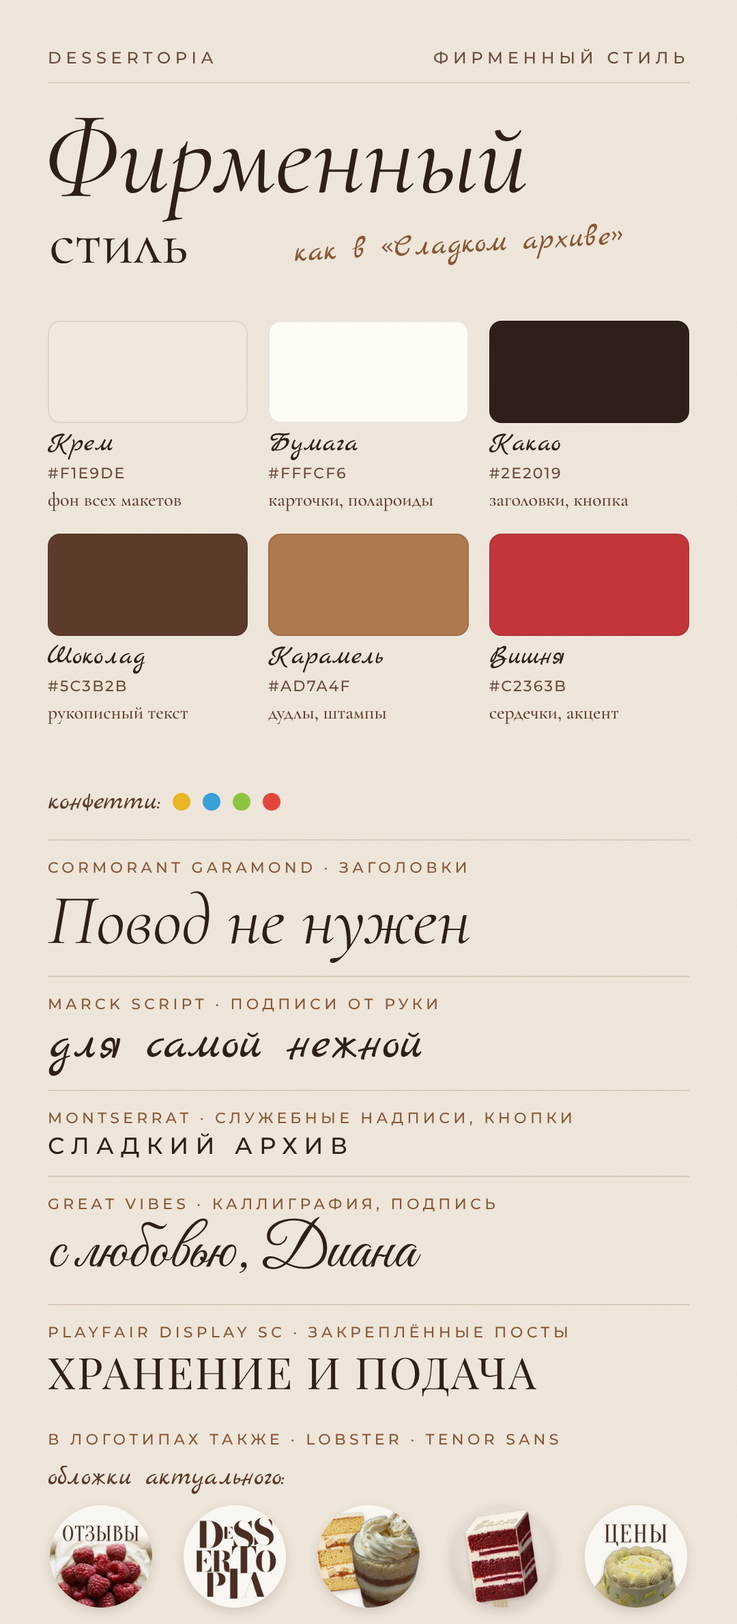
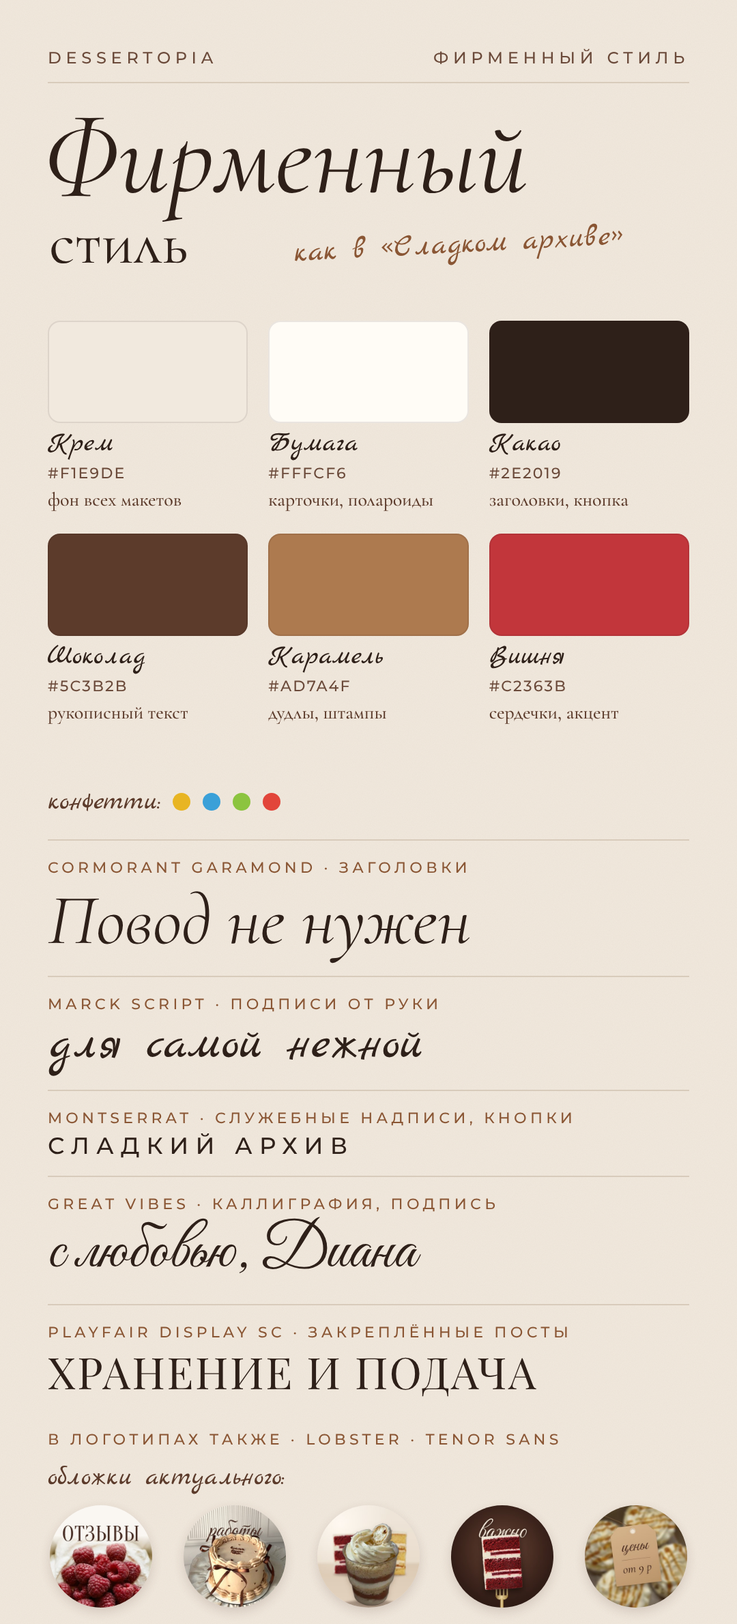
Give highlight covers depth: text behind the cake, depth of field, light
Отзывы stays as it was. Работы sets «работы» between the wall and the
cake in the real photo (a full-frame cut-out lies over the text); Начинки
is a still life with the trifle in focus and blurred slices behind;
Важно puts the red velvet slice on a gold fork under a spotlight on
cocoa with the word in cream script behind it; Цены is a sharp kraft
price tag over blurred caramel trifles. tools/cutouts.py now also makes
full-frame cut-outs.

Claude-Session: https://claude.ai/code/session_01BS48fjdM6CerzjRUCyn4gA

diff --git a/canvas/project/Main.dc.html b/canvas/project/Main.dc.html
@@ -33,19 +33,19 @@
 <div style="font-size: 27px; color: #F2F2F2">Отзывы</div>
 </div><div style="display: flex; flex-direction: column; align-items: center; gap: 14px; width: 186px">
 <div style="width: 176px; height: 176px; border-radius: 50%; box-shadow: 0 0 0 3px #0C0C0C, 0 0 0 6px #363636; overflow: hidden">
-<img src="/_blob/2ebeb56d7f7fb51aac198069316cb619" alt="Обложка «Работы»" style="display: block; width: 176px; height: 176px; object-fit: cover"></div>
+<img src="/_blob/f9aac03fb1fd605c7ca9c84464d1e232" alt="Обложка «Работы»" style="display: block; width: 176px; height: 176px; object-fit: cover"></div>
 <div style="font-size: 27px; color: #F2F2F2">Работы</div>
 </div><div style="display: flex; flex-direction: column; align-items: center; gap: 14px; width: 186px">
 <div style="width: 176px; height: 176px; border-radius: 50%; box-shadow: 0 0 0 3px #0C0C0C, 0 0 0 6px #363636; overflow: hidden">
-<img src="/_blob/817e40cda516cc41c44689f0266e1520" alt="Обложка «Начинки»" style="display: block; width: 176px; height: 176px; object-fit: cover"></div>
+<img src="/_blob/1f54611f6eee30df684f20d3667f04f2" alt="Обложка «Начинки»" style="display: block; width: 176px; height: 176px; object-fit: cover"></div>
 <div style="font-size: 27px; color: #F2F2F2">Начинки</div>
 </div><div style="display: flex; flex-direction: column; align-items: center; gap: 14px; width: 186px">
 <div style="width: 176px; height: 176px; border-radius: 50%; box-shadow: 0 0 0 3px #0C0C0C, 0 0 0 6px #363636; overflow: hidden">
-<img src="/_blob/ce32775d3e09d6fdc9b50ed0fa0094a5" alt="Обложка «Важно»" style="display: block; width: 176px; height: 176px; object-fit: cover"></div>
+<img src="/_blob/d801915588370985937cc82f2c6ca19c" alt="Обложка «Важно»" style="display: block; width: 176px; height: 176px; object-fit: cover"></div>
 <div style="font-size: 27px; color: #F2F2F2">Важно</div>
 </div><div style="display: flex; flex-direction: column; align-items: center; gap: 14px; width: 186px">
 <div style="width: 176px; height: 176px; border-radius: 50%; box-shadow: 0 0 0 3px #0C0C0C, 0 0 0 6px #363636; overflow: hidden">
-<img src="/_blob/203d1f568f97509d0b259b0107fa23db" alt="Обложка «Цены»" style="display: block; width: 176px; height: 176px; object-fit: cover"></div>
+<img src="/_blob/ed17056a1d9a74ec5f4c6afcec04c608" alt="Обложка «Цены»" style="display: block; width: 176px; height: 176px; object-fit: cover"></div>
 <div style="font-size: 27px; color: #F2F2F2">Цены</div>
 </div></div>
 <div style="position: absolute; left: 0; right: 0; top: 1160px; display: grid; grid-template-columns: repeat(3, minmax(0, 1fr)); gap: 3px"><div style="position: relative; height: 477px; overflow: hidden; background: #1C1C1C"><img src="/_blob/005080349611d3189dfe90de2a8bd929" alt="Закреплённый пост «Заказ и доставка»" style="display: block; width: 100%; height: 100%; object-fit: cover"><svg aria-hidden="true" width="44" height="44" viewBox="0 0 24 24" style="position: absolute; right: 14px; top: 14px" fill="#FFFFFF"><path d="M15 3l6 6-3 1-3 3 1 5-2 2-4-4-5 5-1-1 5-5-4-4 2-2 5 1 3-3z"></path></svg></div><div style="position: relative; height: 477px; overflow: hidden; background: #1C1C1C"><img src="/_blob/2ceec1c35d367293e7617c2252eb7139" alt="Закреплённый пост «Цены и начинки»" style="display: block; width: 100%; height: 100%; object-fit: cover"><svg aria-hidden="true" width="44" height="44" viewBox="0 0 24 24" style="position: absolute; right: 14px; top: 14px" fill="#FFFFFF"><path d="M15 3l6 6-3 1-3 3 1 5-2 2-4-4-5 5-1-1 5-5-4-4 2-2 5 1 3-3z"></path></svg></div><div style="position: relative; height: 477px; overflow: hidden; background: #1C1C1C"><img src="/_blob/4c7e3755ee36408cef662a32834a595e" alt="Закреплённый пост «Хранение и подача»" style="display: block; width: 100%; height: 100%; object-fit: cover"><svg aria-hidden="true" width="44" height="44" viewBox="0 0 24 24" style="position: absolute; right: 14px; top: 14px" fill="#FFFFFF"><path d="M15 3l6 6-3 1-3 3 1 5-2 2-4-4-5 5-1-1 5-5-4-4 2-2 5 1 3-3z"></path></svg></div><div style="position: relative; height: 477px; overflow: hidden; background: #1C1C1C"><img src="/_blob/f8fcf921f8e249a7b206a12603d5a9c9" alt="Карусель начинок" style="display: block; width: 100%; height: 100%; object-fit: cover"><svg aria-hidden="true" width="44" height="44" viewBox="0 0 24 24" style="position: absolute; right: 14px; top: 14px" fill="none" stroke="#FFFFFF" stroke-width="2"><rect x="3" y="7" width="13" height="14" rx="2"></rect><path d="M8 3h11a2 2 0 0 1 2 2v11"></path></svg></div><div style="position: relative; height: 477px; overflow: hidden; background: #1C1C1C"><img src="/_blob/4e531b87e15dad19504aaaad31d66a47" alt="Карусель «Повод не нужен»" style="display: block; width: 100%; height: 100%; object-fit: cover"><svg aria-hidden="true" width="44" height="44" viewBox="0 0 24 24" style="position: absolute; right: 14px; top: 14px" fill="none" stroke="#FFFFFF" stroke-width="2"><rect x="3" y="7" width="13" height="14" rx="2"></rect><path d="M8 3h11a2 2 0 0 1 2 2v11"></path></svg></div><div style="position: relative; height: 477px; overflow: hidden; background: #1C1C1C"><img src="/_blob/0192b5076a120dafd266790ff9ee6270" alt="Пост «Десерты в стаканчиках»" style="display: block; width: 100%; height: 100%; object-fit: cover"></div><div style="position: relative; height: 477px; overflow: hidden; background: #1C1C1C"><img src="/_blob/3f2f924fea4a3947ce2a07ae1027e553" alt="Пост «Что написать на твоём торте?»" style="display: block; width: 100%; height: 100%; object-fit: cover"></div><div style="position: relative; height: 477px; overflow: hidden; background: #1C1C1C"><img src="/_blob/acc311caf7482b23272767a83e2e6cb5" alt="Пост «Торты, которые говорят за тебя»" style="display: block; width: 100%; height: 100%; object-fit: cover"></div><div style="position: relative; height: 477px; overflow: hidden; background: #1C1C1C"><img src="/_blob/4053d6ba731c96bceb9810e75856a825" alt="Торт «время пить чай»" style="display: block; width: 100%; height: 100%; object-fit: cover"></div></div>

diff --git a/canvas/project/Hl-4-Vazhno.dc.html b/canvas/project/Hl-4-Vazhno.dc.html
@@ -11,14 +11,10 @@
 <link href="https://fonts.googleapis.com/css2?family=Cormorant+Garamond:ital,wght@0,400;0,500;0,600;1,400;1,500&amp;family=Marck+Script&amp;family=Montserrat:wght@400;500;600&amp;family=Great+Vibes&amp;family=Lobster&amp;family=Playfair+Display+SC&amp;family=Tenor+Sans&amp;family=Playfair+Display:wght@400&amp;family=Bodoni+Moda:opsz,wght@96,400;96,800&amp;family=Oranienbaum&amp;display=swap" rel="stylesheet">
 <style>body{margin:0}</style>
 </helmet>
-<div style="position: relative; width: 1080px; height: 1080px; overflow: hidden; background: radial-gradient(circle at 50% 40%, #F3EEE8 0%, #E3DAD0 58%, #CFC4B8 100%)">
-<div style="position: absolute; left: 200px; top: 92px; width: 690px; height: 1107px; transform: rotate(-8deg); filter: drop-shadow(0 22px 26px rgba(74,46,36,0.20)) drop-shadow(0 4px 6px rgba(74,46,36,0.12))">
-<div style="position: absolute; left: 200px; top: 867px; width: 16px; height: 240px; border-radius: 8px; background: linear-gradient(90deg, #A4803F, #E9D29D 45%, #B38E4C)"></div><div style="position: absolute; left: 240px; top: 867px; width: 16px; height: 240px; border-radius: 8px; background: linear-gradient(90deg, #A4803F, #E9D29D 45%, #B38E4C)"></div><div style="position: absolute; left: 280px; top: 867px; width: 16px; height: 240px; border-radius: 8px; background: linear-gradient(90deg, #A4803F, #E9D29D 45%, #B38E4C)"></div><div style="position: absolute; left: 320px; top: 867px; width: 16px; height: 240px; border-radius: 8px; background: linear-gradient(90deg, #A4803F, #E9D29D 45%, #B38E4C)"></div>
-<img src="/_blob/aa09a6fc09ca924ef383f077895fb3af" alt="" style="position: absolute; left: 540px; top: 140px; width: 150px; height: 757px; max-width: none; filter: brightness(0.62) saturate(1.1); transform-origin: 0 0; transform: skewY(-43.0deg)">
-<img src="/_blob/aa09a6fc09ca924ef383f077895fb3af" alt="Кусок красного бархата" style="position: absolute; left: 0; top: 140px; width: 540px; height: 757px; max-width: none">
-<div style="position: absolute; left: 0; top: 0; width: 690px; height: 148px; background: linear-gradient(176deg, #F4ECDF 0%, #FBF6EE 55%, #F1E6D6 100%); clip-path: polygon(0 148px, 540px 148px, 690px 0, 150px 0)"></div>
-<div style="position: absolute; left: 75px; top: -4px; width: 540px; text-align: center; font-family: 'Marck Script', cursive; font-size: 172px; line-height: 1; color: #F3E8D7; text-shadow: -2px -2px 0 #FFFDF8, 3px 5px 0 #B49671, 6px 11px 12px rgba(90,50,30,0.40); transform-origin: 50% 50%; transform: skewX(-46deg) scaleY(0.62)">Важно</div>
-</div>
+<div style="position: relative; width: 1080px; height: 1080px; overflow: hidden; background: radial-gradient(circle at 50% 44%, #7A5141 0%, #4E3126 34%, #331E17 66%, #22130E 100%)">
+<div style="position: absolute; left: 0; right: 0; top: 150px; text-align: center; font-family: 'Great Vibes', cursive; font-size: 262px; line-height: 1; color: #F6EBDD; text-shadow: 0 6px 24px rgba(0,0,0,0.35)">важно</div>
+<div style="position: absolute; left: 470px; top: 850px; width: 16px; height: 120px; border-radius: 8px; background: linear-gradient(90deg, #8E6A2E, #F1DCA6 45%, #A98642)"></div><div style="position: absolute; left: 508px; top: 850px; width: 16px; height: 120px; border-radius: 8px; background: linear-gradient(90deg, #8E6A2E, #F1DCA6 45%, #A98642)"></div><div style="position: absolute; left: 546px; top: 850px; width: 16px; height: 120px; border-radius: 8px; background: linear-gradient(90deg, #8E6A2E, #F1DCA6 45%, #A98642)"></div><div style="position: absolute; left: 584px; top: 850px; width: 16px; height: 120px; border-radius: 8px; background: linear-gradient(90deg, #8E6A2E, #F1DCA6 45%, #A98642)"></div><div style="position: absolute; left: 470px; top: 950px; width: 130px; height: 46px; border-radius: 0 0 60px 60px; background: linear-gradient(90deg, #8E6A2E, #F1DCA6 45%, #A98642)"></div><div style="position: absolute; left: 518px; top: 980px; width: 34px; height: 140px; border-radius: 17px; background: linear-gradient(90deg, #8E6A2E, #F1DCA6 45%, #A98642)"></div>
+<img src="/_blob/aa09a6fc09ca924ef383f077895fb3af" alt="Кусок красного бархата на вилке" style="position: absolute; left: 336px; top: 318px; width: 404px; max-width: none; filter: drop-shadow(0 0 1px rgba(255,236,214,0.6)) drop-shadow(0 30px 36px rgba(0,0,0,0.55)); transform: rotate(-4deg)">
 </div>
 </x-dc>
 <script type="text/x-dc" data-dc-script data-props='{"$preview":{"width":1080,"height":1080}}'>

diff --git a/canvas/project/Hl-5-Ceny.dc.html b/canvas/project/Hl-5-Ceny.dc.html
@@ -11,9 +11,17 @@
 <link href="https://fonts.googleapis.com/css2?family=Cormorant+Garamond:ital,wght@0,400;0,500;0,600;1,400;1,500&amp;family=Marck+Script&amp;family=Montserrat:wght@400;500;600&amp;family=Great+Vibes&amp;family=Lobster&amp;family=Playfair+Display+SC&amp;family=Tenor+Sans&amp;family=Playfair+Display:wght@400&amp;family=Bodoni+Moda:opsz,wght@96,400;96,800&amp;family=Oranienbaum&amp;display=swap" rel="stylesheet">
 <style>body{margin:0}</style>
 </helmet>
-<div style="position: relative; width: 1080px; height: 1080px; overflow: hidden; background: #FAF7F2">
-<img src="/_blob/458622d8f8bc36bd55cb9fe424af4ed3" alt="Бенто-торт с надписью «Будь счастлива»" style="position: absolute; left: 90px; top: 430px; width: 900px; max-width: none; filter: drop-shadow(0 22px 26px rgba(74,46,36,0.20)) drop-shadow(0 4px 6px rgba(74,46,36,0.12))">
-<svg role="img" aria-label="ЦЕНЫ" width="1080" height="1080" style="position: absolute; left: 0; top: 0"><text x="540" y="392" text-anchor="middle" letter-spacing="8" style="font-family: 'Oranienbaum', 'Playfair Display', serif; font-size: 270px" fill="#4A2E24">ЦЕНЫ</text></svg>
+<div style="position: relative; width: 1080px; height: 1080px; overflow: hidden; background: #E9DFD2">
+<img src="/_blob/e7f5be81caaf56665d59f4c94ec359e5" alt="" style="position: absolute; left: -40px; top: -160px; width: 1160px; max-width: none; filter: blur(9px) sepia(0.2) saturate(1.05) brightness(0.98)">
+<div style="position: absolute; inset: 0; background: radial-gradient(circle at 50% 50%, rgba(40,24,16,0) 40%, rgba(40,24,16,0.28) 100%)"></div>
+<svg aria-hidden="true" width="1080" height="1080" style="position: absolute; left: 0; top: 0" fill="none"><path d="M-20 40C150 90 330 150 490 238" stroke="#7A5A3E" stroke-width="5" stroke-linecap="round"></path></svg>
+<div style="position: absolute; left: 262px; top: 214px; width: 480px; height: 620px; transform: rotate(-7deg); transform-origin: 50% 6%; filter: drop-shadow(0 34px 34px rgba(60,36,24,0.38)) drop-shadow(0 4px 6px rgba(60,36,24,0.2))">
+<div style="position: absolute; inset: 0; clip-path: polygon(18% 0, 82% 0, 100% 15%, 100% 100%, 0 100%, 0 15%); background: linear-gradient(160deg, #D5B48C 0%, #C7A27A 60%, #BA9469 100%)"></div>
+<div style="position: absolute; left: 216px; top: 34px; width: 48px; height: 48px; border-radius: 50%; background: #F1E6D6; box-shadow: inset 0 3px 6px rgba(60,36,24,0.45), 0 0 0 7px #E2CDB0"></div>
+<div style="position: absolute; left: 0; right: 0; top: 130px; text-align: center; font-family: 'Great Vibes', cursive; font-size: 186px; line-height: 1; color: #4A2E24">цены</div>
+<div style="position: absolute; left: 90px; right: 90px; top: 352px; height: 3px; background: rgba(74,46,36,0.45)"></div>
+<div style="position: absolute; left: 0; right: 0; top: 386px; text-align: center; font-family: 'Cormorant Garamond', serif; font-style: italic; font-weight: 500; font-size: 128px; line-height: 1; color: #4A2E24">от 9 р</div>
+</div>
 </div>
 </x-dc>
 <script type="text/x-dc" data-dc-script data-props='{"$preview":{"width":1080,"height":1080}}'>

diff --git a/canvas/project/Style.dc.html b/canvas/project/Style.dc.html
@@ -57,7 +57,7 @@
 <div style="margin-top: 10px; line-height: 1.05; color: #2E2019; font-family: 'Playfair Display SC', serif; font-size: 64px; letter-spacing: 0.04em">ХРАНЕНИЕ И ПОДАЧА</div></div></div>
 <div style="position: absolute; left: 70px; top: 2096px; font-family: 'Montserrat', sans-serif; font-weight: 500; font-size: 22px; letter-spacing: 0.24em; color: #8A5634">В ЛОГОТИПАХ ТАКЖЕ · LOBSTER · TENOR SANS</div>
 <div style="position: absolute; left: 70px; top: 2140px; font-family: 'Marck Script', cursive; font-size: 40px; color: #5C3B2B">обложки актуального:</div>
-<div style="position: absolute; left: 50px; right: 50px; top: 2206px; display: flex; justify-content: space-around"><img src="/_blob/ce08636d969a34ba96e6d5458d19851d" alt="Обложка «Отзывы»" style="width: 150px; height: 150px; border-radius: 50%; object-fit: cover; box-shadow: 0 6px 16px rgba(74,46,36,0.16)"><img src="/_blob/2ebeb56d7f7fb51aac198069316cb619" alt="Обложка «Работы»" style="width: 150px; height: 150px; border-radius: 50%; object-fit: cover; box-shadow: 0 6px 16px rgba(74,46,36,0.16)"><img src="/_blob/817e40cda516cc41c44689f0266e1520" alt="Обложка «Начинки»" style="width: 150px; height: 150px; border-radius: 50%; object-fit: cover; box-shadow: 0 6px 16px rgba(74,46,36,0.16)"><img src="/_blob/ce32775d3e09d6fdc9b50ed0fa0094a5" alt="Обложка «Важно»" style="width: 150px; height: 150px; border-radius: 50%; object-fit: cover; box-shadow: 0 6px 16px rgba(74,46,36,0.16)"><img src="/_blob/203d1f568f97509d0b259b0107fa23db" alt="Обложка «Цены»" style="width: 150px; height: 150px; border-radius: 50%; object-fit: cover; box-shadow: 0 6px 16px rgba(74,46,36,0.16)"></div>
+<div style="position: absolute; left: 50px; right: 50px; top: 2206px; display: flex; justify-content: space-around"><img src="/_blob/ce08636d969a34ba96e6d5458d19851d" alt="Обложка «Отзывы»" style="width: 150px; height: 150px; border-radius: 50%; object-fit: cover; box-shadow: 0 6px 16px rgba(74,46,36,0.16)"><img src="/_blob/f9aac03fb1fd605c7ca9c84464d1e232" alt="Обложка «Работы»" style="width: 150px; height: 150px; border-radius: 50%; object-fit: cover; box-shadow: 0 6px 16px rgba(74,46,36,0.16)"><img src="/_blob/1f54611f6eee30df684f20d3667f04f2" alt="Обложка «Начинки»" style="width: 150px; height: 150px; border-radius: 50%; object-fit: cover; box-shadow: 0 6px 16px rgba(74,46,36,0.16)"><img src="/_blob/d801915588370985937cc82f2c6ca19c" alt="Обложка «Важно»" style="width: 150px; height: 150px; border-radius: 50%; object-fit: cover; box-shadow: 0 6px 16px rgba(74,46,36,0.16)"><img src="/_blob/ed17056a1d9a74ec5f4c6afcec04c608" alt="Обложка «Цены»" style="width: 150px; height: 150px; border-radius: 50%; object-fit: cover; box-shadow: 0 6px 16px rgba(74,46,36,0.16)"></div>
 </div>
 </x-dc>
 <script type="text/x-dc" data-dc-script data-props='{"$preview":{"width":1080,"height":2380}}'>

diff --git a/canvas/project/Hl-2-Raboty.dc.html b/canvas/project/Hl-2-Raboty.dc.html
@@ -11,8 +11,10 @@
 <link href="https://fonts.googleapis.com/css2?family=Cormorant+Garamond:ital,wght@0,400;0,500;0,600;1,400;1,500&amp;family=Marck+Script&amp;family=Montserrat:wght@400;500;600&amp;family=Great+Vibes&amp;family=Lobster&amp;family=Playfair+Display+SC&amp;family=Tenor+Sans&amp;family=Playfair+Display:wght@400&amp;family=Bodoni+Moda:opsz,wght@96,400;96,800&amp;family=Oranienbaum&amp;display=swap" rel="stylesheet">
 <style>body{margin:0}</style>
 </helmet>
-<div style="position: relative; width: 1080px; height: 1080px; overflow: hidden; background: #FAF7F2">
-<svg role="img" aria-label="DESSERTOPIA" width="1080" height="1080" style="position: absolute; left: 0; top: 0" fill="#4A2E24"><text x="132" y="450" style="font-family: 'Bodoni Moda', 'Playfair Display', serif; font-weight: 800; font-size: 380px">D</text><text x="413" y="354" style="font-family: 'Bodoni Moda', 'Playfair Display', serif; font-weight: 800; font-size: 170px">E</text><text x="515" y="450" style="font-family: 'Bodoni Moda', 'Playfair Display', serif; font-weight: 800; font-size: 380px">S</text><text x="731" y="420" style="font-family: 'Bodoni Moda', 'Playfair Display', serif; font-weight: 800; font-size: 380px">S</text><text x="107" y="702" style="font-family: 'Bodoni Moda', 'Playfair Display', serif; font-weight: 800; font-size: 300px">E</text><text x="288" y="702" style="font-family: 'Bodoni Moda', 'Playfair Display', serif; font-weight: 800; font-size: 300px">R</text><text x="504" y="716" style="font-family: 'Bodoni Moda', 'Playfair Display', serif; font-weight: 800; font-size: 380px">T</text><text x="752" y="702" style="font-family: 'Bodoni Moda', 'Playfair Display', serif; font-weight: 800; font-size: 300px">O</text><text x="215" y="966" style="font-family: 'Bodoni Moda', 'Playfair Display', serif; font-weight: 800; font-size: 340px">P</text><text x="439" y="984" style="font-family: 'Bodoni Moda', 'Playfair Display', serif; font-weight: 800; font-size: 420px">I</text><text x="606" y="966" style="font-family: 'Bodoni Moda', 'Playfair Display', serif; font-weight: 800; font-size: 340px">A</text></svg>
+<div style="position: relative; width: 1080px; height: 1080px; overflow: hidden; background: #EDE9E4">
+<img src="/_blob/4053d6ba731c96bceb9810e75856a825" alt="" style="position: absolute; left: 0; top: -225px; width: 1080px; max-width: none; filter: sepia(0.14) saturate(0.96) brightness(1.02)">
+<div style="position: absolute; left: 0; right: 0; top: 150px; text-align: center; font-family: 'Great Vibes', cursive; font-size: 236px; line-height: 1; color: #4A2E24">работы</div>
+<img src="/_blob/27fe42987e573e2f936c47136d3bec8f" alt="Торт «время пить чай» с бантами" style="position: absolute; left: 0; top: -225px; width: 1080px; max-width: none; filter: sepia(0.14) saturate(0.96) brightness(1.02)">
 </div>
 </x-dc>
 <script type="text/x-dc" data-dc-script data-props='{"$preview":{"width":1080,"height":1080}}'>

diff --git a/canvas/project/Hl-3-Nachinki.dc.html b/canvas/project/Hl-3-Nachinki.dc.html
@@ -11,9 +11,12 @@
 <link href="https://fonts.googleapis.com/css2?family=Cormorant+Garamond:ital,wght@0,400;0,500;0,600;1,400;1,500&amp;family=Marck+Script&amp;family=Montserrat:wght@400;500;600&amp;family=Great+Vibes&amp;family=Lobster&amp;family=Playfair+Display+SC&amp;family=Tenor+Sans&amp;family=Playfair+Display:wght@400&amp;family=Bodoni+Moda:opsz,wght@96,400;96,800&amp;family=Oranienbaum&amp;display=swap" rel="stylesheet">
 <style>body{margin:0}</style>
 </helmet>
-<div style="position: relative; width: 1080px; height: 1080px; overflow: hidden; background: #FAF7F2">
-<img src="/_blob/d67acf0d705c6ffc2d5a67853c319c83" alt="Срез торта банан-карамель" style="position: absolute; left: -30px; top: 70px; width: 560px; max-width: none; filter: drop-shadow(0 22px 26px rgba(74,46,36,0.20)) drop-shadow(0 4px 6px rgba(74,46,36,0.12)); transform: rotate(-6deg)">
-<img src="/_blob/1b632c4ee3f7a61c0409caf9cd45dc04" alt="Трайфл со сливочным кремом" style="position: absolute; left: 330px; top: 30px; width: 780px; max-width: none; filter: drop-shadow(0 22px 26px rgba(74,46,36,0.20)) drop-shadow(0 4px 6px rgba(74,46,36,0.12)); transform: rotate(2deg)">
+<div style="position: relative; width: 1080px; height: 1080px; overflow: hidden; background: radial-gradient(circle at 22% 18%, rgba(255,250,242,0.95) 0%, rgba(255,250,242,0) 46%), linear-gradient(180deg, #EFE6DA 0%, #E9DDCD 55%, #DCCAB4 58%, #E3D3BF 100%)">
+<div style="position: absolute; left: 168px; top: 710px; width: 300px; height: 37px; border-radius: 50%; background: rgba(60,36,24,0.3); filter: blur(10px)"></div><div style="position: absolute; left: 618px; top: 708px; width: 320px; height: 40px; border-radius: 50%; background: rgba(60,36,24,0.3); filter: blur(10px)"></div>
+<img src="/_blob/aa09a6fc09ca924ef383f077895fb3af" alt="Срез красного бархата" style="position: absolute; left: 168px; top: 300px; width: 300px; max-width: none; filter: blur(5px) brightness(0.97); transform: rotate(-2deg)">
+<img src="/_blob/d67acf0d705c6ffc2d5a67853c319c83" alt="Срез торта банан-карамель" style="position: absolute; left: 618px; top: 262px; width: 320px; max-width: none; filter: blur(5px) brightness(0.97); transform: rotate(2deg)">
+<div style="position: absolute; left: 260px; top: 1003px; width: 600px; height: 75px; border-radius: 50%; background: rgba(60,36,24,0.36); filter: blur(10px)"></div>
+<img src="/_blob/1b632c4ee3f7a61c0409caf9cd45dc04" alt="Трайфл со сливочным кремом" style="position: absolute; left: 262px; top: 190px; width: 600px; max-width: none; filter: drop-shadow(0 22px 26px rgba(74,46,36,0.20)) drop-shadow(0 4px 6px rgba(74,46,36,0.12))">
 </div>
 </x-dc>
 <script type="text/x-dc" data-dc-script data-props='{"$preview":{"width":1080,"height":1080}}'>

diff --git a/tools/build_highlights.py b/tools/build_highlights.py
@@ -1,23 +1,24 @@
-"""Highlight covers, 1080×1080, after the original covers: a light clean background, the food cut out on it,
-thin high-contrast editorial type. Each cover keeps its original idea —
-«Отзывы»: word on top, berries below; «Работы»: the DESS/ERTO/PIA letter stack; «Начинки»: desserts only;
-«Важно»: a red velvet slice with the word piped on it — in the new palette.
+"""Highlight covers, 1080×1080. «Отзывы» follows the original cover (word on top, berries below on a clean
+background); the others each use their own way to get depth instead of a cut-out on a flat background:
+«Работы» — the word set behind the cake in the real photo, «Начинки» — a still life with depth of field,
+«Важно» — a slice on a fork under a spotlight on cocoa, «Цены» — a sharp kraft price tag over blurred caramel trifles.
 
 Cut-outs come from tools/cutouts.py. Run `python3 tools/build.py` (it calls this module).
 """
-import math
-
 from build import COCOA, PROJECT, page
 
 CUT = {
     "malina": "/_blob/6e337375aa197f5ae76500d2a2c56f08", "barkhat": "/_blob/aa09a6fc09ca924ef383f077895fb3af",
     "banan": "/_blob/d67acf0d705c6ffc2d5a67853c319c83", "trifl": "/_blob/1b632c4ee3f7a61c0409caf9cd45dc04",
-    "bento": "/_blob/458622d8f8bc36bd55cb9fe424af4ed3",
+    "bento": "/_blob/458622d8f8bc36bd55cb9fe424af4ed3", "chai-full": "/_blob/27fe42987e573e2f936c47136d3bec8f",
 }
+PHOTO = {"chai": "/_blob/4053d6ba731c96bceb9810e75856a825", "trifly": "/_blob/e7f5be81caaf56665d59f4c94ec359e5"}
 IVORY = "#FAF7F2"
+CREAM = "#F6EBDD"
 CONDENSED = "font-family: 'Oranienbaum', 'Playfair Display', serif"
-BODONI = "'Bodoni Moda', 'Playfair Display', serif"
+VIBES = "font-family: 'Great Vibes', cursive"
 SHADOW = "filter: drop-shadow(0 22px 26px rgba(74,46,36,0.20)) drop-shadow(0 4px 6px rgba(74,46,36,0.12))"
+WARM = "filter: sepia(0.14) saturate(0.96) brightness(1.02)"
 
 
 def cover(title, bg, body):
@@ -26,9 +27,10 @@ def cover(title, bg, body):
 </div>""")
 
 
-def cut(key, alt, left, top, width, rot=0):
+def cut(key, alt, left, top, width, rot=0, extra=""):
     turn = f"; transform: rotate({rot}deg)" if rot else ""
-    return f'<img src="{CUT[key]}" alt="{alt}" style="position: absolute; left: {left}px; top: {top}px; width: {width}px; max-width: none; {SHADOW}{turn}">'
+    return (f'<img src="{CUT[key]}" alt="{alt}" style="position: absolute; left: {left}px; top: {top}px; width: {width}px; '
+            f'max-width: none; {extra or SHADOW}{turn}">')
 
 
 def word(baseline, text, size, spacing=0):
@@ -45,59 +47,61 @@ def otzyvy():
     return cover("Обложка — Отзывы", IVORY, body)
 
 
-# DESS / ERTO / PIA, as in the original: three rows set letter by letter, a small raised E, the second S lifted,
-# the tall T and I reaching into the row above, letters close to touching. Advance widths are Bodoni Moda 800 (units of 2000).
-ADVANCE = {"D": 1567, "E": 1292, "S": 1228, "R": 1529, "T": 1399, "O": 1558, "P": 1405, "I": 888, "A": 1609}
-ROWS = [
-    # baseline, [(char, size, rise)]
-    (450, [("D", 380, 0), ("E", 170, 96), ("S", 380, 0), ("S", 380, 30)]),
-    (702, [("E", 300, 0), ("R", 300, 0), ("T", 380, -14), ("O", 300, 0)]),
-    (966, [("P", 340, 0), ("I", 420, -18), ("A", 340, 0)]),
-]
-TRACK = -0.045
-
-
 def raboty():
-    glyphs = []
-    for base, letters in ROWS:
-        widths = [ADVANCE[c] / 2000 * sz + TRACK * sz for c, sz, _ in letters]
-        x = 540 - sum(widths) / 2
-        for (c, sz, rise), wd in zip(letters, widths):
-            glyphs.append(f'<text x="{x:.0f}" y="{base - rise}" style="font-family: {BODONI}; font-weight: 800; font-size: {sz}px">{c}</text>')
-            x += wd
-    return cover("Обложка — Работы", IVORY,
-                 f'<svg role="img" aria-label="DESSERTOPIA" width="1080" height="1080" style="position: absolute; left: 0; top: 0" fill="{COCOA}">{"".join(glyphs)}</svg>')
+    """The real cake photo with «работы» set between the wall and the cake: the full-frame cut-out of the cake
+    lies on top of the text, so the piped border and the ribbons pass in front of the letters."""
+    frame = "position: absolute; left: 0; top: -225px; width: 1080px; max-width: none"   # source 960×1280, y 200…1160
+    body = f"""<img src="{PHOTO["chai"]}" alt="" style="{frame}; {WARM}">
+<div style="position: absolute; left: 0; right: 0; top: 150px; text-align: center; {VIBES}; font-size: 236px; line-height: 1; color: {COCOA}">работы</div>
+<img src="{CUT["chai-full"]}" alt="Торт «время пить чай» с бантами" style="{frame}; {WARM}">"""
+    return cover("Обложка — Работы", "#EDE9E4", body)
 
 
 def nachinki():
-    body = f"""{cut("banan", "Срез торта банан-карамель", -30, 70, 560, -6)}
-{cut("trifl", "Трайфл со сливочным кремом", 330, 30, 780, 2)}"""
-    return cover("Обложка — Начинки", IVORY, body)
+    """A small still life: the trifle sharp in front, two slices showing their layers behind it, out of focus,
+    all standing on the same table."""
+    room = ("radial-gradient(circle at 22% 18%, rgba(255,250,242,0.95) 0%, rgba(255,250,242,0) 46%), "
+            "linear-gradient(180deg, #EFE6DA 0%, #E9DDCD 55%, #DCCAB4 58%, #E3D3BF 100%)")
+    contact = lambda cx, cy, rx, o: (f'<div style="position: absolute; left: {cx - rx}px; top: {cy - rx // 8}px; width: {rx * 2}px; height: {rx // 4}px; '
+                                     f'border-radius: 50%; background: rgba(60,36,24,{o}); filter: blur(10px)"></div>')
+    soft = "filter: blur(5px) brightness(0.97)"
+    body = f"""{contact(318, 728, 150, 0.30)}{contact(778, 728, 160, 0.30)}
+{cut("barkhat", "Срез красного бархата", 168, 300, 300, -2, soft)}
+{cut("banan", "Срез торта банан-карамель", 618, 262, 320, 2, soft)}
+{contact(560, 1040, 300, 0.36)}
+{cut("trifl", "Трайфл со сливочным кремом", 262, 190, 600)}"""
+    return cover("Обложка — Начинки", room, body)
 
 
 def vazhno():
-    """A red velvet slice seen from above-right: the photo is the front face, the same photo squeezed and darkened
-    is the side face, the top face is drawn with «Важно» piped on it, and the slice sits on a fork."""
-    w, h, d, sx = 540, 757, 140, 150          # front width/height, top-face depth, horizontal shift
-    skew = math.degrees(math.atan(d / sx))   # the side face rises with the top face's slant
-    bg = "radial-gradient(circle at 50% 40%, #F3EEE8 0%, #E3DAD0 58%, #CFC4B8 100%)"
-    piped = ("color: #F3E8D7; text-shadow: -2px -2px 0 #FFFDF8, 3px 5px 0 #B49671, 6px 11px 12px rgba(90,50,30,0.40)")
-    tines = "".join(f'<div style="position: absolute; left: {w // 2 - 70 + i * 40}px; top: {d + h - 30}px; width: 16px; height: 240px; '
-                    f'border-radius: 8px; background: linear-gradient(90deg, #A4803F, #E9D29D 45%, #B38E4C)"></div>' for i in range(4))
-    body = f"""<div style="position: absolute; left: 200px; top: 92px; width: {w + sx}px; height: {d + h + 210}px; transform: rotate(-8deg); {SHADOW}">
-{tines}
-<img src="{CUT["barkhat"]}" alt="" style="position: absolute; left: {w}px; top: {d}px; width: {sx}px; height: {h}px; max-width: none; filter: brightness(0.62) saturate(1.1); transform-origin: 0 0; transform: skewY(-{skew:.1f}deg)">
-<img src="{CUT["barkhat"]}" alt="Кусок красного бархата" style="position: absolute; left: 0; top: {d}px; width: {w}px; height: {h}px; max-width: none">
-<div style="position: absolute; left: 0; top: 0; width: {w + sx}px; height: {d + 8}px; background: linear-gradient(176deg, #F4ECDF 0%, #FBF6EE 55%, #F1E6D6 100%); clip-path: polygon(0 {d + 8}px, {w}px {d + 8}px, {w + sx}px 0, {sx}px 0)"></div>
-<div style="position: absolute; left: {sx // 2}px; top: -4px; width: {w}px; text-align: center; font-family: 'Marck Script', cursive; font-size: 172px; line-height: 1; {piped}; transform-origin: 50% 50%; transform: skewX(-46deg) scaleY(0.62)">Важно</div>
-</div>"""
-    return cover("Обложка — Важно", bg, body)
+    """A red velvet slice on a gold fork under a spotlight; «важно» in cream script behind its top edge."""
+    light = "radial-gradient(circle at 50% 44%, #7A5141 0%, #4E3126 34%, #331E17 66%, #22130E 100%)"
+    gold = "linear-gradient(90deg, #8E6A2E, #F1DCA6 45%, #A98642)"
+    tines = "".join(f'<div style="position: absolute; left: {470 + i * 38}px; top: 850px; width: 16px; height: 120px; border-radius: 8px; background: {gold}"></div>'
+                    for i in range(4))
+    fork = (f'{tines}<div style="position: absolute; left: 470px; top: 950px; width: 130px; height: 46px; border-radius: 0 0 60px 60px; background: {gold}"></div>'
+            f'<div style="position: absolute; left: 518px; top: 980px; width: 34px; height: 140px; border-radius: 17px; background: {gold}"></div>')
+    rim = "filter: drop-shadow(0 0 1px rgba(255,236,214,0.6)) drop-shadow(0 30px 36px rgba(0,0,0,0.55))"
+    body = f"""<div style="position: absolute; left: 0; right: 0; top: 150px; text-align: center; {VIBES}; font-size: 262px; line-height: 1; color: {CREAM}; text-shadow: 0 6px 24px rgba(0,0,0,0.35)">важно</div>
+{fork}
+{cut("barkhat", "Кусок красного бархата на вилке", 336, 318, 404, -4, rim)}"""
+    return cover("Обложка — Важно", light, body)
 
 
 def ceny():
-    body = f"""{cut("bento", "Бенто-торт с надписью «Будь счастлива»", 90, 430, 900)}
-{word(392, "ЦЕНЫ", 270, 8)}"""
-    return cover("Обложка — Цены", IVORY, body)
+    """A kraft price tag on a string, sharp, over the caramel trifles thrown out of focus."""
+    tag_shape = "polygon(18% 0, 82% 0, 100% 15%, 100% 100%, 0 100%, 0 15%)"
+    body = f"""<img src="{PHOTO["trifly"]}" alt="" style="position: absolute; left: -40px; top: -160px; width: 1160px; max-width: none; filter: blur(9px) sepia(0.2) saturate(1.05) brightness(0.98)">
+<div style="position: absolute; inset: 0; background: radial-gradient(circle at 50% 50%, rgba(40,24,16,0) 40%, rgba(40,24,16,0.28) 100%)"></div>
+<svg aria-hidden="true" width="1080" height="1080" style="position: absolute; left: 0; top: 0" fill="none"><path d="M-20 40C150 90 330 150 490 238" stroke="#7A5A3E" stroke-width="5" stroke-linecap="round"></path></svg>
+<div style="position: absolute; left: 262px; top: 214px; width: 480px; height: 620px; transform: rotate(-7deg); transform-origin: 50% 6%; filter: drop-shadow(0 34px 34px rgba(60,36,24,0.38)) drop-shadow(0 4px 6px rgba(60,36,24,0.2))">
+<div style="position: absolute; inset: 0; clip-path: {tag_shape}; background: linear-gradient(160deg, #D5B48C 0%, #C7A27A 60%, #BA9469 100%)"></div>
+<div style="position: absolute; left: 216px; top: 34px; width: 48px; height: 48px; border-radius: 50%; background: #F1E6D6; box-shadow: inset 0 3px 6px rgba(60,36,24,0.45), 0 0 0 7px #E2CDB0"></div>
+<div style="position: absolute; left: 0; right: 0; top: 130px; text-align: center; {VIBES}; font-size: 186px; line-height: 1; color: {COCOA}">цены</div>
+<div style="position: absolute; left: 90px; right: 90px; top: 352px; height: 3px; background: rgba(74,46,36,0.45)"></div>
+<div style="position: absolute; left: 0; right: 0; top: 386px; text-align: center; font-family: 'Cormorant Garamond', serif; font-style: italic; font-weight: 500; font-size: 128px; line-height: 1; color: {COCOA}">от 9 р</div>
+</div>"""
+    return cover("Обложка — Цены", "#E9DFD2", body)
 
 
 COVERS = [("Otzyvy", otzyvy), ("Raboty", raboty), ("Nachinki", nachinki), ("Vazhno", vazhno), ("Ceny", ceny)]

diff --git a/tools/cutouts.py b/tools/cutouts.py
@@ -5,6 +5,7 @@
 
 Uses rembg with the isnet-general-use model (downloaded to ~/.u2net on first run), then keeps only the main
 object: faint alpha is dropped, the largest connected piece is kept, and optional boxes trim the rest.
+FULL_FRAME cut-outs keep the source size, so they line up exactly over the photo (text-behind-object covers).
 """
 from pathlib import Path
 
@@ -26,6 +27,15 @@ SOURCES = {
     "tort-chai": ("assets/photos/cake-vremya-pit-chai.jpg", None, (0, 0)),
     "trifly-karamel": ("assets/photos/trifle-karamel-box.jpg", None, (0, 0)),
 }
+FULL_FRAME = {"tort-chai-full": "assets/photos/cake-vremya-pit-chai.jpg"}
+
+
+def main_object(a):
+    a[a[..., 3] < 30, 3] = 0
+    labels, n = ndimage.label(a[..., 3] > 0)
+    sizes = ndimage.sum(np.ones_like(labels), labels, range(1, n + 1))
+    a[labels != np.argmax(sizes) + 1, 3] = 0
+    return a
 
 
 def main():
@@ -38,16 +48,16 @@ def main():
             keep = np.zeros(a.shape[:2], bool)
             keep[y0:y1, x0:x1] = True
             a[~keep, 3] = 0
-        a[a[..., 3] < 30, 3] = 0
-        labels, n = ndimage.label(a[..., 3] > 0)
-        sizes = ndimage.sum(np.ones_like(labels), labels, range(1, n + 1))
-        a[labels != np.argmax(sizes) + 1, 3] = 0
-        im = Image.fromarray(a)
+        im = Image.fromarray(main_object(a))
         im = im.crop(im.getchannel("A").getbbox())
         im.thumbnail((1000, 1000), Image.LANCZOS)
         im = im.crop((0, top, im.width, im.height - bottom))
         im.save(OUT / f"{name}.png", optimize=True)
         print(name, im.size)
+    for name, src in FULL_FRAME.items():
+        a = np.asarray(remove(Image.open(ROOT / src).convert("RGB"), session=session)).copy()
+        Image.fromarray(main_object(a)).save(OUT / f"{name}.png", optimize=True)
+        print(name, "full frame")
 
 
 if __name__ == "__main__":

diff --git a/tools/build_profile.py b/tools/build_profile.py
@@ -5,9 +5,9 @@ Run `python3 tools/build.py` (it calls this module).
 from build import CARAMEL, CARAMEL_TEXT, CHERRY, CONFETTI, CREAM, HAND, INK, PAPER, PROJECT, RULE, page, paper_noise
 
 # Highlight covers (rendered from canvas/project/Hl-*.dc.html, see assets/mockup).
-HIGHLIGHTS = [("ce08636d969a34ba96e6d5458d19851d", "Отзывы"), ("2ebeb56d7f7fb51aac198069316cb619", "Работы"),
-              ("817e40cda516cc41c44689f0266e1520", "Начинки"), ("ce32775d3e09d6fdc9b50ed0fa0094a5", "Важно"),
-              ("203d1f568f97509d0b259b0107fa23db", "Цены")]
+HIGHLIGHTS = [("ce08636d969a34ba96e6d5458d19851d", "Отзывы"), ("f9aac03fb1fd605c7ca9c84464d1e232", "Работы"),
+              ("1f54611f6eee30df684f20d3667f04f2", "Начинки"), ("d801915588370985937cc82f2c6ca19c", "Важно"),
+              ("ed17056a1d9a74ec5f4c6afcec04c608", "Цены")]
 GRID = [
     ("005080349611d3189dfe90de2a8bd929", "Закреплённый пост «Заказ и доставка»", "pin"),
     ("2ceec1c35d367293e7617c2252eb7139", "Закреплённый пост «Цены и начинки»", "pin"),

diff --git a/README.md b/README.md
@@ -56,15 +56,15 @@
 
 ## Обложки актуального
 
-Сделаны по исходным обложкам профиля, в новой палитре: светлый чистый фон, вырезанная еда, тонкий контрастный шрифт.
+У каждой обложки свой приём, чтобы картинка не была плоской:
 
-- **Отзывы** — ОТЗЫВЫ (Oranienbaum) сверху, малина снизу.
-- **Работы** — DESS / ERTO / PIA из букв Bodoni Moda, выставленных по одной.
-- **Начинки** — только десерты крупно: срез банан-карамель и ваш трайфл.
-- **Важно** — кусок красного бархата на вилке, «Важно» выведено кремом на верхней грани.
-- **Цены** — ЦЕНЫ сверху, ваш бенто снизу.
+- **Отзывы** — как в исходной обложке: ОТЗЫВЫ (Oranienbaum) сверху, малина снизу.
+- **Работы** — ваш торт «время пить чай», надпись «работы» стоит между стеной и тортом: кремовый бортик и банты проходят поверх букв.
+- **Начинки** — натюрморт с глубиной резкости: ваш трайфл в фокусе, за ним размытые срезы красного бархата и банан-карамели.
+- **Важно** — кусок красного бархата на золотой вилке под светом на шоколадном фоне, «важно» кремовой каллиграфией за ним.
+- **Цены** — резкая крафтовая бирка «цены · от 9 р» на верёвочке поверх размытых трайфлов с карамелью.
 
-Еда вырезана из фона скриптом `tools/cutouts.py` (rembg); готовые вырезки лежат в `assets/cutouts/`. Малина и кусок торта — из картинок ИИ, трайфл и бенто — ваши фото.
+Референсы смотрел на Pinterest (кусок торта на вилке на цветном фоне, бирки, трайфлы крупным планом); чужие фото в обложки не вставлены. Еда вырезана из фона скриптом `tools/cutouts.py` (rembg); малина и срезы — картинки ИИ, торт, трайфл и трайфлы с карамелью — ваши фото.
 
 ## Закреплённые посты
 
